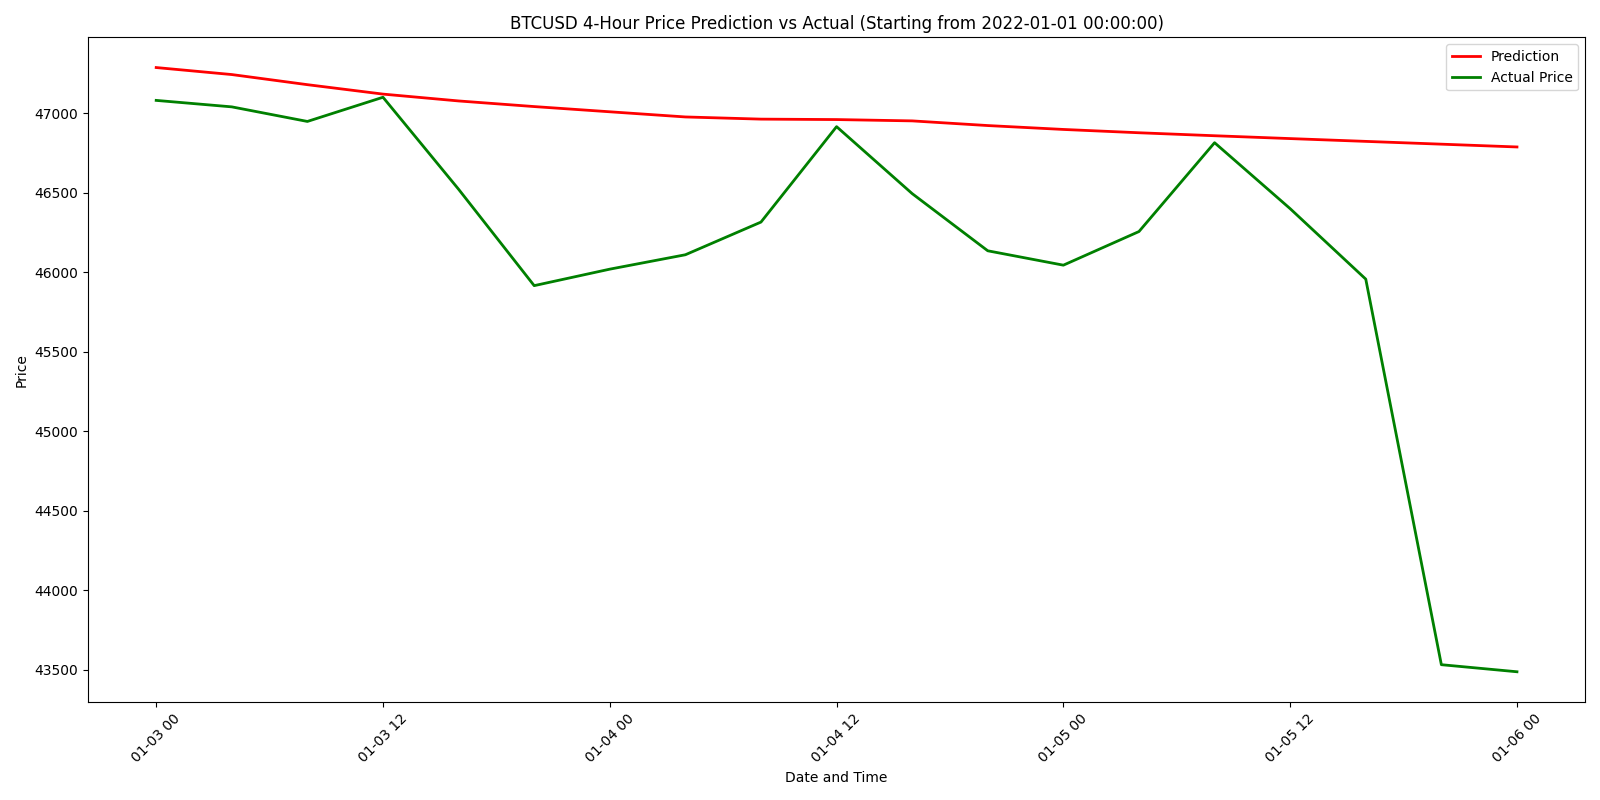
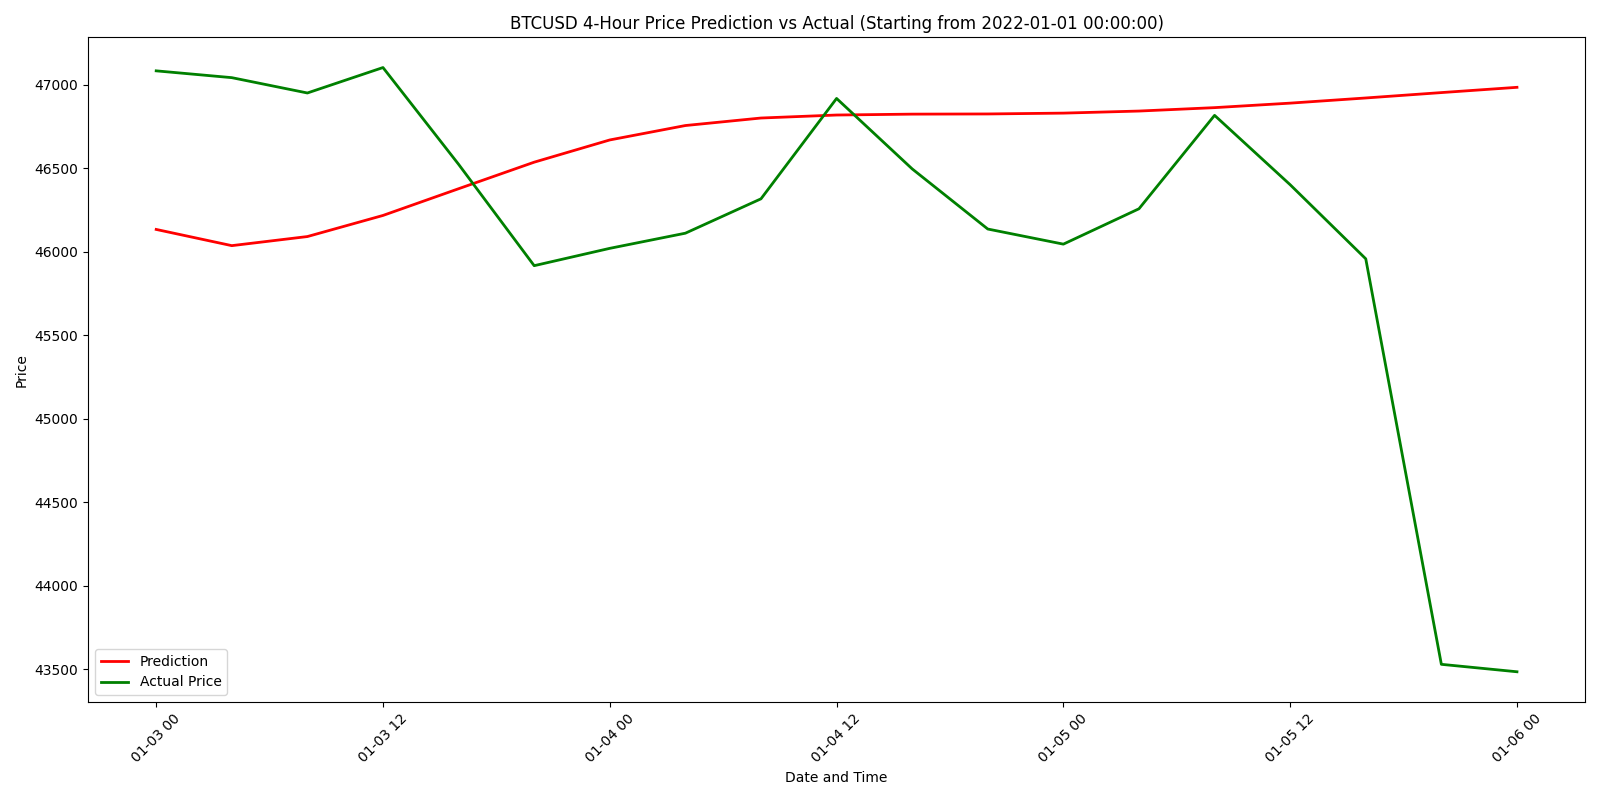
fixed data functions to have early stopping for big data sets

diff --git a/Price predictions using LSTM/data_processing/data_functions.py b/Price predictions using LSTM/data_processing/data_functions.py
@@ -11,7 +11,7 @@ import MetaTrader5 as mt5
 import matplotlib.pyplot as plt
 from tensorflow.keras import backend as K
 from tensorflow.keras.callbacks import EarlyStopping
-import time
+
 
 
 def fetch_historical_data(mt5, symbol, timeframe, start_date, end_date):
@@ -96,7 +96,6 @@ def create_train_data(scaled_data, window_size):
     X_train = np.reshape(X_train, (X_train.shape[0], X_train.shape[1], 1))
     return X_train, y_train
 
-
 def train_lstm_model(X_train, y_train, window_size):
     strategy = tf.distribute.MirroredStrategy()
     print("Number of devices: {}".format(strategy.num_replicas_in_sync))
@@ -111,11 +110,16 @@ def train_lstm_model(X_train, y_train, window_size):
         ])
         model.compile(optimizer='adam', loss='mean_squared_error')
     
-    epochs = 8000
-    batch_size = 128
+    # Add Early Stopping
+    early_stopping = EarlyStopping(
+        monitor='val_loss',
+        patience=10,
+        restore_best_weights=True,
+        verbose=1
+    )
     
-    # Add early stopping
-    early_stopping = EarlyStopping(monitor='val_loss', patience=50, restore_best_weights=True)
+    epochs = 9000
+    batch_size = 128
     
     print("Starting model training...")
     with tqdm(total=epochs, unit="epoch") as pbar:
@@ -134,28 +138,6 @@ def train_lstm_model(X_train, y_train, window_size):
     
     print("Model training completed.")
     return model
-
-def train_model(train_data, window_size):
-    if len(train_data) < window_size:
-        print("Not enough data to train the model")
-        return None
-
-    X_train, y_train = create_train_data(train_data, window_size)
-    if X_train is None or y_train is None:
-        return None
-
-    model = Sequential([
-        LSTM(200, return_sequences=True, input_shape=(window_size, 1)),
-        LSTM(200, return_sequences=True),
-        LSTM(100, return_sequences=False),
-        Dense(50),
-        Dense(1)
-    ])
-    model.compile(optimizer='adam', loss='mean_squared_error')
-
-    model.fit(X_train, y_train, batch_size=128, epochs=100, validation_split=0.2, verbose=1)
-    return model
-
 def predict_future(model, train_data, scaler, future_periods, window_size):
     input_seq = train_data[-window_size:]
     predictions = []
@@ -171,105 +153,97 @@ def run_trading_process():
     # Define the symbol and timeframe
     symbol = "BTCUSD"
     timeframe = mt5.TIMEFRAME_H4  # 4-hour timeframe
-    start_date = datetime(2012, 4,18)
+    start_date = datetime(2012, 4, 1)
     train_end_date = datetime(2021, 12, 31, 20, 0)  # Last 4-hour candle of 2021
-    window_size = 30  # 10 days
+    window_size = 10  # 10 days
 
     # Check MT5 connection
     if not mt5.terminal_info().connected:
         print("Not connected to MetaTrader 5. Please check your connection.")
         return
 
-    # Set up relearning every 30 days
-    relearn_interval = timedelta(days=30)
-    next_relearn_date = train_end_date + relearn_interval
+    # Fetch all historical 4-hour data from 2010 to the end of 2021
+    all_data = fetch_historical_data(mt5, symbol, timeframe, start_date, train_end_date)
+    if all_data is None or len(all_data) == 0:
+        print("Failed to fetch historical data. Aborting process.")
+        return
 
-    while True:
-        # Fetch all historical 4-hour data from 2010 to the current train_end_date
-        all_data = fetch_historical_data(mt5, symbol, timeframe, start_date, train_end_date)
-        if all_data is None or len(all_data) == 0:
-            print("Failed to fetch historical data. Aborting process.")
-            return
+    # Verify data
+    print(f"Training data from {all_data.iloc[0]['time']} to {all_data.iloc[-1]['time']}")
+    print(f"Total data points: {len(all_data)}")
 
-        # Verify data
-        print(f"Training data from {all_data.iloc[0]['time']} to {all_data.iloc[-1]['time']}")
-        print(f"Total data points: {len(all_data)}")
+    if len(all_data) < window_size:
+        print(f"Not enough data points. Required: {window_size}, Available: {len(all_data)}")
+        return
 
-        if len(all_data) < window_size:
-            print(f"Not enough data points. Required: {window_size}, Available: {len(all_data)}")
-            return
+    # Scale the training data
+    scaled_train_data, scaler = preprocess_data(all_data['close'].values, window_size, is_training=True)
+    if scaler is None:
+        print("Failed to scale training data")
+        return
 
-        # Scale the training data
-        scaled_train_data, scaler = preprocess_data(all_data['close'].values, window_size, is_training=True)
-        if scaler is None:
-            print("Failed to scale training data")
-            return
+    # Create training data
+    X_train, y_train = create_train_data(scaled_train_data, window_size)
+    if X_train is None or y_train is None:
+        print("Failed to create training data")
+        return
 
-        # Train the model on historical data
-        model = train_model(scaled_train_data, window_size)
-        if model is None:
-            print("Failed to train model")
-            return
+    # Train the model on 2010-2021 4-hour data
+    model = train_lstm_model(X_train, y_train, window_size)
+    if model is None:
+        print("Failed to train model")
+        return
 
-        # Get the last close price from the training data
-        last_close = all_data.iloc[-1]['close']
-        last_date = all_data.iloc[-1]['time']
 
-        # Fetch actual price data for the prediction period (next 30 days or until next_relearn_date)
-        prediction_start_date = last_date + timedelta(hours=4)
-        prediction_end_date = min(next_relearn_date, prediction_start_date + timedelta(days=30))
-        actual_data = fetch_historical_data(mt5, symbol, timeframe, prediction_start_date, prediction_end_date)
+    # Get the last close price from the training data
+    last_close = all_data.iloc[-1]['close']
+    last_date = all_data.iloc[-1]['time']
 
-        if actual_data is None or len(actual_data) == 0:
-            print("Failed to fetch actual data for the prediction period. Aborting process.")
-            return
+    # Fetch actual price data for the prediction period (first 5 days of 2022)
+    prediction_start_date = last_date + timedelta(hours=4)
+    prediction_end_date = prediction_start_date + timedelta(days=5)
+    actual_data = fetch_historical_data(mt5, symbol, timeframe, prediction_start_date, prediction_end_date)
 
-        # Generate predictions for the same dates as actual data
-        predictions = predict_future(model, all_data['close'].values, scaler, len(actual_data), window_size)
+    if actual_data is None or len(actual_data) == 0:
+        print("Failed to fetch actual data for the prediction period. Aborting process.")
+        return
 
-        # Extract model equation
-        weights = model.get_weights()
-        bias = weights[-1][0]
-        last_dense_weights = weights[-2]
-        equation = f"y = {bias:.4f}"
-        for i, w in enumerate(last_dense_weights):
-            equation += f" + {w[0]:.4f} * x{i+1}"
+    # Generate predictions for the same dates as actual data
+    predictions = predict_future(model, all_data['close'].values, scaler, len(actual_data), window_size)
 
-        # Print predictions
-        print("\n4-Hour Predictions:")
-        for i, (pred_datetime, pred_close) in enumerate(zip(actual_data['time'], predictions)):
-            print(f"Date: {pred_datetime}, Predicted Close: ${pred_close[0]:.2f}")
+    # Extract model equation
+    weights = model.get_weights()
+    bias = weights[-1][0]
+    last_dense_weights = weights[-2]
+    equation = f"y = {bias:.4f}"
+    for i, w in enumerate(last_dense_weights):
+        equation += f" + {w[0]:.4f} * x{i+1}"
 
-        # Prepare data for Excel export
-        pred_df = pd.DataFrame({
-            'DateTime': actual_data['time'],
-            'Predicted_Close': predictions.flatten(),
-            'Actual_Close': actual_data['close'],
-            'Model_Equation': [equation] * len(actual_data)
-        })
-        pred_df.to_excel(f"4hour_predictions_report_{train_end_date.strftime('%Y%m%d')}.xlsx", index=False)
-        print(f"4-hour predictions exported to 4hour_predictions_report_{train_end_date.strftime('%Y%m%d')}.xlsx")
+    # Print predictions
+    print("\n4-Hour Predictions:")
+    for i, (pred_datetime, pred_close) in enumerate(zip(actual_data['time'], predictions)):
+        print(f"Date: {pred_datetime}, Predicted Close: ${pred_close[0]:.2f}")
 
-        # Plotting
-        plt.figure(figsize=(16, 8))
-        plt.plot(actual_data['time'], predictions, color='red', linewidth=2, label='Prediction')
-        plt.plot(actual_data['time'], actual_data['close'], color='green', linewidth=2, label='Actual Price')
-        plt.xlabel('Date and Time')
-        plt.ylabel('Price')
-        plt.title(f'{symbol} 4-Hour Price Prediction vs Actual (Starting from {prediction_start_date})')
-        plt.legend()
-        plt.xticks(rotation=45)
-        plt.tight_layout()
-        plt.savefig(f'4hour_price_prediction_plot_{train_end_date.strftime("%Y%m%d")}.png')
-        plt.close()
-        print(f"4-hour price prediction plot saved as 4hour_price_prediction_plot_{train_end_date.strftime('%Y%m%d')}.png")
+    # Prepare data for Excel export
+    pred_df = pd.DataFrame({
+        'DateTime': actual_data['time'],
+        'Predicted_Close': predictions.flatten(),
+        'Actual_Close': actual_data['close'],
+        'Model_Equation': [equation] * len(actual_data)
+    })
+    pred_df.to_excel("4hour_predictions_report.xlsx", index=False)
+    print("4-hour predictions exported to 4hour_predictions_report.xlsx")
 
-        print(f"Next relearning scheduled for: {next_relearn_date}")
-
-        # Wait until it's time to relearn
-        while datetime.now() < next_relearn_date:
-            time.sleep(3600)  # Sleep for 1 hour
-
-        # Update the training data and prepare for the next iteration
-        train_end_date = next_relearn_date
-        next_relearn_date += relearn_interval
+    # Plotting
+    plt.figure(figsize=(16, 8))
+    plt.plot(actual_data['time'], predictions, color='red', linewidth=2, label='Prediction')
+    plt.plot(actual_data['time'], actual_data['close'], color='green', linewidth=2, label='Actual Price')
+    plt.xlabel('Date and Time')
+    plt.ylabel('Price')
+    plt.title(f'{symbol} 4-Hour Price Prediction vs Actual (Starting from {prediction_start_date})')
+    plt.legend()
+    plt.xticks(rotation=45)
+    plt.tight_layout()
+    plt.savefig('4hour_price_prediction_plot.png')
+    plt.close()
+    print("4-hour price prediction plot saved as 4hour_price_prediction_plot.png")
